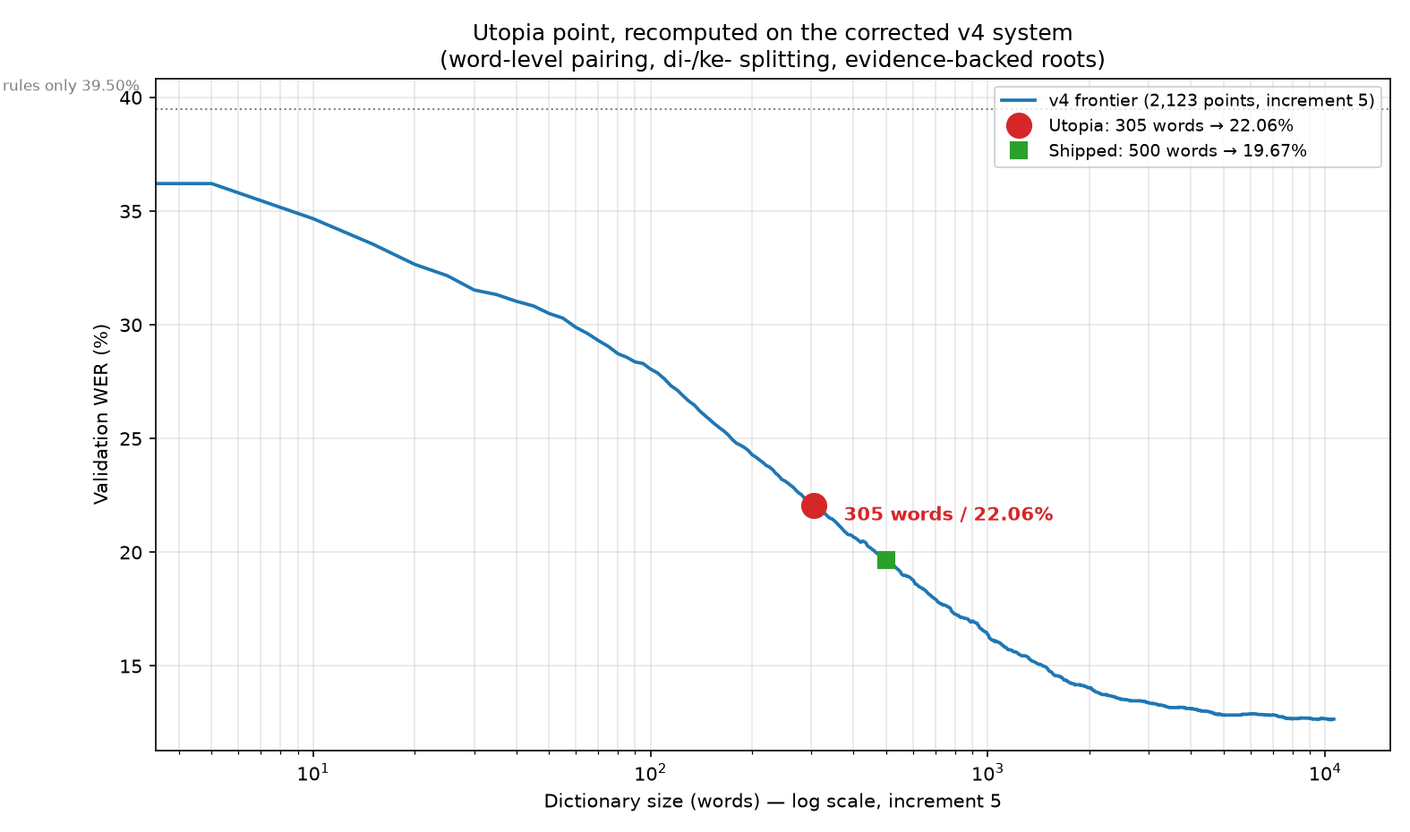
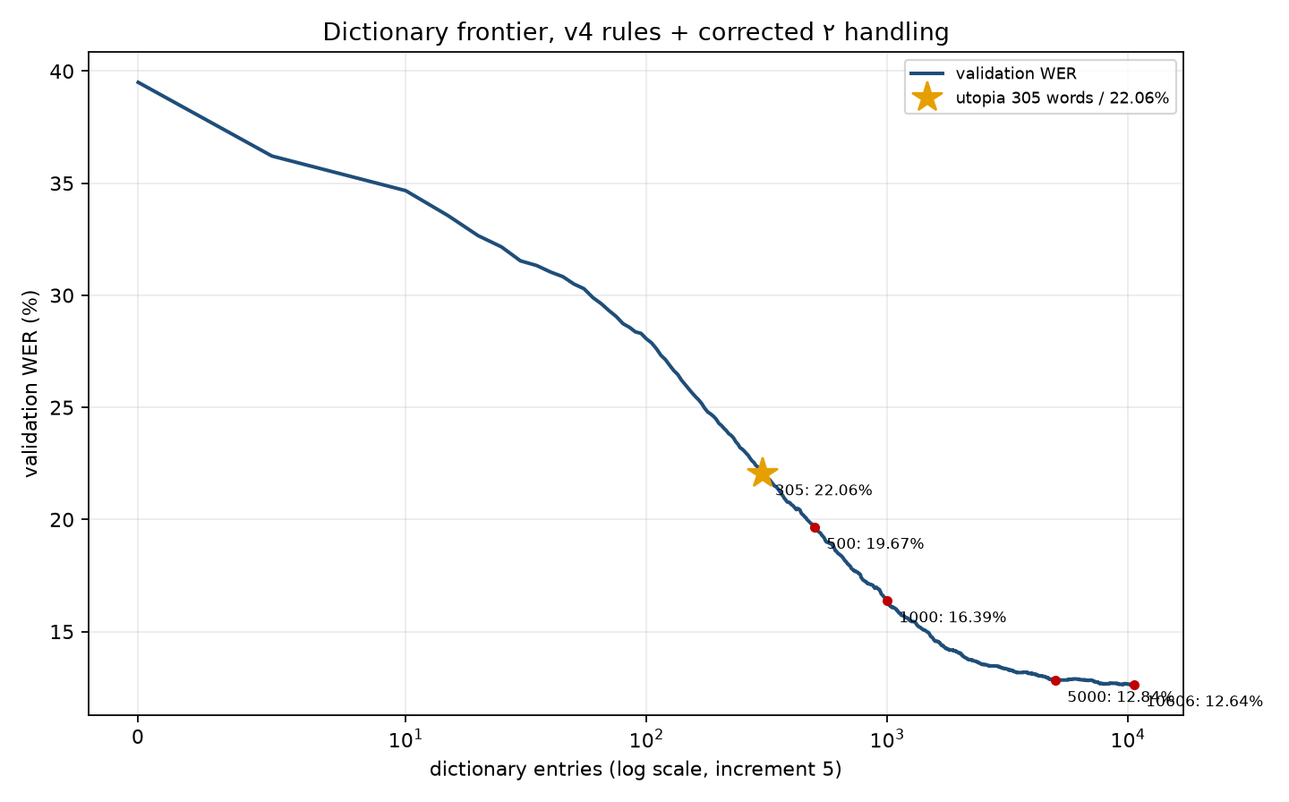
Fix the ٢ dictionary key that was stripped before lookup
The repeat handler called jawiToRumi on the captured letters, so the ٢ was
already gone when the dictionary was consulted: every marked key was
unreachable, and the aligner had recorded those tokens as the single word
anyway. Look the key up with the mark on, and align a marked token against
the repeated phrase.

Validation 19.67% -> 19.52%, train 20.07% -> 19.95%, 500 entries.
All 29 TUNE parameters screened: no gain, constants unchanged.
Utopia recounted on 2,123 points: 305 words at 22.06%

diff --git a/JawiConverter.html b/JawiConverter.html
@@ -1956,131 +1956,90 @@ function forwardForInverse(text) {
  * occurrences the rules decode wrongly (not by raw frequency). See
  * docs/EVALUATION.md; entries are only for tokens the rules get wrong. */
 const DICTIONARY_ENTRIES = {
-  "إسلام":"islam", "االله":"allah", "ابراهيم":"ibrahim", "اتليت":"atlet",
-  "احوال":"ehwal", "اد":"ada", "ارواح":"arwah", "اساس":"asas",
-  "اسماعيل":"ismail", "اسيستن":"asisten komisioner", "اسڤيک":"aspek", "اسکندر":"iskandar",
-  "الحمدالله":"alhamdulillah", "الدين":"al din", "القرءان":"al quran", "الور":"alor",
-  "امان":"aman", "امس":"emas", "امڤت":"empat", "انق٢":"anak anak",
-  "انم":"enam", "اوجرڽ":"jarinya", "اورڠ":"orang", "اوسها":"usaha",
-  "اوسهاون":"shane", "اول":"awal", "اوليه":"oleh", "اونتوق":"untuk",
-  "اوندڠ٢":"undang undang", "اونيۏرسيتي":"universiti", "اوڤ":"ops s", "اوڤراسي":"operasi",
-  "اي":"ia", "ايت":"itu", "ايسوق":"esok", "ايليکتريک":"elektrik",
-  "ايميݢريسين":"imigresen", "اين":"ini", "ايندوستري":"industri", "ايندونيسيا":"indonesia",
-  "اينستيتوسي":"institusi", "ايڠين":"ingin", "ايڤوه":"ipoh", "ايکسيکوتيف":"eksekutif",
-  "ايکن":"akan", "ايکورن":"ekoran", "ايکونومي":"ekonomi", "اڠݢوتا":"anggota",
-  "اڤليکاسي":"aplikasi", "اکن":"akan", "اݢينسي":"agensi", "بارو٢":"baru",
-  "بايي":"bayi", "باݢي":"bagi", "براوسها":"berusaha", "براوسيا":"berusia",
-  "براوچڤ":"berucap merasmikan", "براوڤراسي":"beroperasi", "برايکوتن":"berikutan", "بربيذا":"berbeza",
-  "برتمو":"bertemu", "برتڠݢوڠجواب":"bertanggungjawab", "برجالن":"berjalan", "بردڤن":"berdepan",
-  "برسام-سام":"bersama sama", "برسيه":"bersih", "برشکور":"bersyukur", "برماٴين":"bermain",
-  "برنيلاي":"bernilai", "برکات":"berkata", "برکواس":"berkuasa", "برکوڠسي":"berkongsi",
-  "بنتوان":"bantuan", "بنجير":"banjir", "بهارو":"bahru", "بهاس":"bahasa",
-  "بهاوا":"bahawa", "بهاݢين":"bahagian", "بوات":"buat", "بوت":"bot",
-  "بودايا":"budaya", "بولا":"bola sepak", "بوليه":"boleh", "بومبا":"bomba",
-  "بيݢ":"beg", "بڠک":"bank", "بکرجا":"bekerja", "بݢيندا":"baginda",
-  "تاهون":"tahun", "تايلند":"thailand", "ترافيک":"trafik", "تراوتام":"terutama",
-  "تراوتاماڽ":"terutamanya", "ترباٴيق":"terbaik", "تربڠ":"terbang", "ترتنتو":"tertentu",
-  "ترسبوت":"tersebut", "تريلر":"treler", "ترڠݢانو":"terengganu", "تمبه":"tambah",
-  "تمبهڽ":"tumbuhnya", "تمڤت":"tempat", "تنتڠ":"tentang", "تولر":"telur",
-  "توناي":"tunai", "تياد":"tiada", "تيبا٢":"tiba", "تيدق":"tidak",
-  "تيمڤوه":"tempoh", "تيندقن":"tindakan", "تيکنولوݢي":"teknologi", "تيکيت":"tiket",
-  "تڠکو":"tengku", "تڠݢوڠجواب":"tanggungjawab", "جاوتنکواس":"jawatankuasa", "جاوي":"javi",
-  "جاي":"jae", "جماعه":"jemaah", "جمبتن":"jambatan", "جوسترو":"justru",
-  "جوهر":"johor", "جک":"jika", "حاج":"haji", "حرام":"haram",
-  "حسن":"hasan", "حيوان":"haiwan", "حکومن":"hukuman", "خاص":"khas",
-  "خصوصڽ":"khususnya", "د":"di", "دأتس":"di atas", "دأيبو":"dibawa",
-  "داتوق":"datuk", "دالم":"dalam", "دان":"dan", "داٴيره":"daerah",
-  "دباندر":"di bandar", "دباوا":"dibawa ke", "دباوه":"di bawah", "دببراڤ":"di beberapa",
-  "دبهاݢين":"di bahagian", "دبوات":"dibuat", "دتامن":"di taman", "دتاهن":"ditahan",
-  "دتموٴي":"ditemui", "دتموکن":"ditemukan", "دتمڤت":"di tempat", "دجابتن":"di jabatan",
-  "دجالن":"di jalan", "ددالم":"di dalam", "دداٴيره":"di", "دداڤتي":"didapati",
-  "ددعوا":"didakwa", "دديوان":"di dewan", "درومه":"di rumah", "دري":"dari",
-  "درڤد":"daripada", "دسان":"di sana", "دسببکن":"disebabkan", "دسبواه":"di sebuah",
-  "دستاديوم":"di stadium", "دسدياکن":"disediakan", "دسرتاٴي":"disertai", "دسلوروه":"di seluruh",
-  "دسمڤايکن":"disampaikan oleh", "دسمڤيڠ":"di samping", "دسيتو":"di situ", "دسيني":"di sini",
-  "دسکوله":"di sekolah", "دسکيتر":"di sekitar", "دشکي":"disyaki", "دعوه":"daah",
-  "دفهمکن":"difahamkan", "دلاڤورکن":"dilaporkan", "دلقساناکن":"dilaksanakan", "دلوار":"di luar",
-  "دلوکاسي":"di lokasi", "دمان":"di mana", "دمحکمه":"di mahkamah", "دمسجد":"di masjid",
-  "دمعلومکن":"dimaklumkan", "دمليسيا":"di malaysia", "دمي":"demi", "دمکين":"demikian",
-  "دنيا":"dunia", "دنݢارا":"di", "دنݢري":"di", "دهادڤن":"di hadapan",
-  "دهوسڤيتل":"di hospital", "دهولو":"dahulu", "دواکيلي":"diwakili", "دورين":"durin",
-  "دوکتور":"doktor", "دوکومن":"dokumen", "ديوان":"dewan", "دڠن":"dengan",
-  "دڤرتوا":"dipertua", "دڤريڠکت":"di peringkat", "دڤرچاياٴي":"dipercayai", "دڤن":"depan",
-  "دڤوست":"di pusat", "دکامڤوڠ":"di kampung", "دکاوسن":"di kawasan", "دکت":"dekat",
-  "دکلوارکن":"dikeluarkan oleh", "دکناکن":"dikenakan", "دکنلي":"dikenali", "دکيلوميتر":"di kilometer",
-  "راکن٢":"rakan", "رزقي":"rezeki", "رسواه":"rasuah", "رعية":"rakyat",
-  "رعيت":"rakyat", "رمضان":"ramadan", "رنده":"rendah", "ريمن":"roman",
-  "ريکود":"rekod", "زکاة":"zakat", "س":"s", "ساتو":"satu",
-  "سباݢاي":"sebagai", "سبنتر":"sini sebentar", "سبنرڽ":"sebenarnya", "سبهاݢين":"sebahagian daripada",
-  "ستياٴوسها":"setiausaha", "ستياڤ":"setiap", "سراوق":"sarawak", "سرتا":"serta",
-  "سرمبن":"seremban", "سري":"seri", "سلاتن":"selatan", "سلاڠور":"selangor",
-  "سلساي":"selesai", "سلطان":"sultan", "سليسا":"selesa", "سمات-مات":"semata mata",
-  "سماکين":"semakin", "سمبوتن":"sambutan", "سمبيل":"sambil", "سمنتارا":"sementara itu",
-  "سمڤاي":"sampai", "سمڤنا":"sempena", "سمڤه":"sampah", "سنتياس":"sentiasa",
-  "سهاج":"sahaja", "سوروهنجاي":"pencegahan rasuah", "سوسيال":"sosial", "سوسڤيک":"suspek",
-  "سومبر":"sumber", "سوڠاي":"sungai", "سوڤايا":"supaya", "سوکوڠن":"sokongan",
-  "سياستن":"siasatan", "سياڤ":"siap", "سيتي":"seti", "سيد":"syed",
-  "سيستم":"sistem", "سينديکيت":"sindiket", "سيڤتيمبر":"malaysia fam", "سيڤق":"sepak malaysia",
-  "سيکشن":"seksyen", "سڠݢوڤ":"sanggup", "سڤرتي":"seperti", "سڤنجڠ":"sepanjang",
-  "سڤنوهڽ":"sepenuhnya", "سکواد":"skuad", "سکوله":"sekolah", "شاه":"shah",
-  "شريکت":"syarikat", "صالح":"saleh", "صح":"sah", "صلاة":"solat",
-  "طرف":"taraf", "عاقبة":"akibat", "عبداالله":"abdullah", "عبدالرحمن":"abdul rahman",
-  "عبدالعزيز":"abdul aziz", "علمو":"ilmu", "علي":"ala", "عموم":"umum",
-  "عوام":"awam", "عيدالفطري":"aidilfitri", "فوکوس":"fokus", "فيسبوک":"facebook",
-  "قاعده":"kaedah", "قدر":"kadar", "لاڤورن":"laporan", "لمڤور":"lumpur",
-  "لنجوت":"lanjut", "لوري":"lori", "لوکاسي":"lokasi", "ليم":"lima",
-  "لڠسوڠ":"langsung", "لڠکه":"langkah", "ماجيستريت":"majistret", "ماسيڠ٢":"masing",
-  "مان٢":"mana mana", "ماٴنسي":"manusia", "مجليس":"majlis", "محمد":"muhammad",
-  "محکمه":"mahkamah", "مراسميکن":"merasmikan", "مرمڤس":"merampas", "مريک":"mereka",
-  "مسئله":"masalah", "مسجد":"masjid", "مسرا":"mesra", "مشارکت":"masyarakat",
-  "معلومت":"maklumat", "ملايو":"melayu", "ملتقکن":"meletakkan", "ملقساناکن":"melaksanakan",
-  "ملنچرکن":"melancarkan", "مليسيا":"malaysia", "ملڠݢر":"melanggar", "مماکاي":"memakai",
-  "ممباوا":"membawa", "ممبوات":"membuat", "ممبوليهکن":"membolehkan", "ممرلوکن":"memerlukan",
-  "ممستيکن":"memastikan", "ممعلومکن":"memaklumkan", "ممنوهي":"memenuhi", "ممڤو":"mampu",
-  "منجالني":"menjalani", "منداڤتي":"mendapati", "مندعوا":"mendakwa", "منفعة":"manfaat",
-  "منمبه":"menambah", "منمتکن":"menamatkan", "منچاڤاي":"mencapai", "منڠکڤ":"menangkap akan",
-  "مهاسيسوا":"mahasiswa", "مواکيلي":"mewakili", "موت":"maut", "موتوسيکل":"motosikal",
-  "موجودکن":"mewujudkan", "موڠکين":"mungkin", "ميت":"mayat", "ميتر":"meter",
-  "ميديا":"media sosial", "ميسين":"mesin", "ميمڠ":"memang", "مڠالمي":"mengalami",
-  "مڠسا":"mangsa", "مڠصحکن":"mengesahkan", "مڠعمومکن":"mengumumkan", "مڠلوارکن":"mengeluarkan",
-  "مڠمبيل":"mengambil", "مڽببکن":"menyebabkan", "مڽدري":"menyedari", "مڽدياکن":"menyediakan",
-  "مڽرتاٴي":"menyertai", "مڽقسيکن":"menyaksikan", "مڽلسايکن":"menyelesaikan", "مڽمبوت":"menyambut",
-  "مڽمڤايکن":"menyampaikan", "ناسيونل":"nasional", "نجيب":"najib", "نيلاي":"nilai",
-  "نݢري":"negeri", "هديه":"hadiah", "همڤير":"hampir", "هوتيل":"hotel",
-  "هوسڤيتل":"hospital", "ولايه":"wilayah", "ياٴيت":"iaitu", "يقين":"yakin",
-  "يوسف":"yusuf", "يڠ":"yang", "چابرن":"cabaran", "چالون":"calon",
-  "چمرلڠ":"cemerlang", "چنسلور":"canselor", "چونتوه":"contoh", "چوڠ":"cheung we",
-  "چينا":"china", "ڤاس":"pas", "ڤاسرن":"pasaran", "ڤاميرن":"pameran",
-  "ڤاکاين":"pakaian", "ڤد":"pada", "ڤرخدمتن":"perkhidmatan", "ڤرسمبهن":"persembahan",
-  "ڤرسکوتوان":"persekutuan", "ڤرليس":"perlis", "ڤرليمن":"parlimen", "ڤرموهونن":"permohonan",
-  "ڤرمڤوان":"perempuan", "ڤرنه":"pernah", "ڤروتون":"proton", "ڤروجيک":"projek",
-  "ڤرودوک":"produk", "ڤروسيس":"proses", "ڤروفيسور":"profesor", "ڤرومهن":"perumahan",
-  "ڤروݢرم":"program", "ڤريسيدن":"presiden", "ڤريميس":"premis", "ڤرکمبڠن":"perkembangan",
-  "ڤسرتا":"peserta", "ڤلاجرن":"pelajaran", "ڤلاکون":"pelakon", "ڤلباݢاي":"pelbagai",
-  "ڤلستيک":"plastik", "ڤلنچرن":"pelancaran", "ڤلنچوڠ":"pelancong", "ڤلنچوڠن":"pelancongan",
-  "ڤلڠݢن":"pelanggan", "ڤمندو":"pemandu", "ڤميمڤين":"pemimpin", "ڤنتاي":"pantai",
-  "ڤنتيڠ":"penting", "ڤنجڠ":"panjang", "ڤنداڤتن":"pendapatan", "ڤنددهن":"pendedahan tentang",
-  "ڤندعواٴن":"pendakwaan", "ڤندفترن":"pendaftaran", "ڤندودوق":"penduduk", "ڤنشرح":"pensyarah",
-  "ڤنولوڠ":"penolong", "ڤنچاڤاين":"pencapaian", "ڤنچمرن":"pencemaran", "ڤهڠ":"pahang",
-  "ڤوتراجاي":"putrajaya", "ڤوسيتيف":"positif", "ڤوليس":"polis", "ڤوڤولر":"popular",
-  "ڤوکوق":"pokok", "ڤوکول":"pukul", "ڤيراق":"perak", "ڤڠالمن":"pengalaman",
-  "ڤڠهرݢاٴن":"penghargaan", "ڤڠيعترافن":"pengiktirafan", "ڤڠڠکوتن":"pengangkutan", "ڤڠݢيلن":"panggilan",
-  "ڤڤريقساٴن":"peperiksaan", "ڤکرجا":"pekerja", "ڤکرجاٴن":"pekerjaan", "ڤڽرتاٴن":"penyertaan",
-  "ڤڽلامت":"penyelamat malaysia", "ڤڽوکوڠ":"penyokong", "ڤݢاواي":"pegawai", "ک-":"ke",
-  "کأتس":"ke atas", "کأره":"ke arah", "کأواڠن":"kewangan", "کاتݢوري":"kategori",
-  "کانق٢":"kanak kanak", "کايو":"kayu", "کاکيتاڠن":"kakitangan", "کباکرن":"kebakaran",
-  "کبڠساٴن":"kebangsaan", "کتوا":"ketua", "کتيک":"ketika", "کتيݢ-تيݢ":"ketiga tiga",
-  "کدالم":"ke dalam", "کداي":"kedai", "کدوا-دوا":"kedua dua", "کدوا-دواڽ":"kedua duanya",
-  "کران":"kerana", "کرتس":"kertas", "کرجاسام":"kerjasama", "کرجا٢":"kerja",
-  "کرومه":"ke rumah", "کريتا":"kereta", "کستم":"kastam", "کسدرن":"kesedaran",
-  "کسلامتن":"keselamatan", "کسلوروهن":"keseluruhan", "کسموا":"kesemua", "کسيقساٴن":"keseksaan",
-  "کسکوله":"ke sekolah", "کصيحتن":"kesihatan", "کلمارين":"kelmarin", "کلنتن":"kelantan",
-  "کلوکاسي":"ke lokasi", "کلڠ":"klang", "کماٴنسياٴن":"kemanusiaan", "کمنترين":"kementerian",
-  "کمودهن":"kemudahan", "کمودينڽ":"kemudiannya", "کهوسڤيتل":"ke hospital", "کواس":"kuasa",
-  "کوتا":"kota", "کوس":"kos", "کوليج":"kolej", "کومونيتي":"komuniti",
-  "کوڤراسي":"koperasi", "کيت":"kita", "کيرا٢":"kira", "کيمڤين":"kempen",
-  "کچدراٴن":"kecederaan", "کچمسن":"kecemasan", "کڤد":"kepada", "کڤرلوان":"keperluan",
-  "ۏيديو":"video", "ݢامبر":"gembira", "ݢولوڠن":"golongan", "ݢينراسي":"generasi"
+  "إسلام":"islam", "االله":"allah", "ابراهيم":"ibrahim", "اتليت":"atlet", "احوال":"ehwal", "اد":"ada",
+  "ارواح":"arwah", "اساس":"asas", "اسماعيل":"ismail", "اسيستن":"asisten komisioner", "اسڤيک":"aspek", "اسکندر":"iskandar",
+  "الحمدالله":"alhamdulillah", "الدين":"al din", "القرءان":"al quran", "الور":"alor", "امان":"aman", "امس":"emas",
+  "امڤت":"empat", "انق٢":"anak anak", "انم":"enam", "اوجرڽ":"jarinya", "اورڠ":"orang", "اوسها":"usaha",
+  "اوسهاون":"shane", "اول":"awal", "اوليه":"oleh", "اونتوق":"untuk", "اوندڠ٢":"undang undang", "اونيۏرسيتي":"universiti",
+  "اوڤ":"ops s", "اوڤراسي":"operasi", "اي":"ia", "ايت":"itu", "ايسوق":"esok", "ايليکتريک":"elektrik",
+  "ايميݢريسين":"imigresen", "اين":"ini", "ايندوستري":"industri", "ايندونيسيا":"indonesia", "اينستيتوسي":"institusi", "ايڠين":"ingin",
+  "ايڤوه":"ipoh", "ايکسيکوتيف":"eksekutif", "ايکن":"akan", "ايکورن":"ekoran", "ايکونومي":"ekonomi", "اڠݢوتا":"anggota",
+  "اڤليکاسي":"aplikasi", "اکن":"akan", "اݢينسي":"agensi", "بارو٢":"baru baru", "بايي":"bayi", "باݢي":"bagi",
+  "براوسها":"berusaha", "براوسيا":"berusia", "براوچڤ":"berucap merasmikan", "براوڤراسي":"beroperasi", "برايکوتن":"berikutan", "بربيذا":"berbeza",
+  "برتمو":"bertemu", "برتڠݢوڠجواب":"bertanggungjawab", "برجالن":"berjalan", "بردڤن":"berdepan", "برسام-سام":"bersama sama", "برسيه":"bersih",
+  "برشکور":"bersyukur", "برماٴين":"bermain", "برنيلاي":"bernilai", "برکات":"berkata", "برکواس":"berkuasa", "برکوڠسي":"berkongsi",
+  "بنتوان":"bantuan", "بنجير":"banjir", "بهارو":"bahru", "بهاس":"bahasa", "بهاوا":"bahawa", "بهاݢين":"bahagian",
+  "بوات":"buat", "بوت":"bot", "بودايا":"budaya", "بولا":"bola sepak", "بوليه":"boleh", "بومبا":"bomba",
+  "بيݢ":"beg", "بڠک":"bank", "بکرجا":"bekerja", "بݢيندا":"baginda", "تاهون":"tahun", "تايلند":"thailand",
+  "ترافيک":"trafik", "تراوتام":"terutama", "تراوتاماڽ":"terutamanya", "ترباٴيق":"terbaik", "تربڠ":"terbang", "ترتنتو":"tertentu",
+  "ترسبوت":"tersebut", "تريلر":"treler", "ترڠݢانو":"terengganu", "تمبه":"tambah", "تمبهڽ":"tumbuhnya", "تمڤت":"tempat",
+  "تنتڠ":"tentang", "تولر":"telur", "توناي":"tunai", "تياد":"tiada", "تيبا٢":"tiba tiba", "تيدق":"tidak",
+  "تيمڤوه":"tempoh", "تيندقن":"tindakan", "تيکنولوݢي":"teknologi", "تيکيت":"tiket", "تڠکو":"tengku", "تڠݢوڠجواب":"tanggungjawab",
+  "جاوتنکواس":"jawatankuasa", "جاوي":"javi", "جاي":"jae", "جماعه":"jemaah", "جمبتن":"jambatan", "جوسترو":"justru",
+  "جوهر":"johor", "جک":"jika", "حاج":"haji", "حرام":"haram", "حسن":"hasan", "حيوان":"haiwan",
+  "حکومن":"hukuman", "خاص":"khas", "خصوصڽ":"khususnya", "د":"di", "دأتس":"di atas", "دأيبو":"dibawa",
+  "داتوق":"datuk", "دالم":"dalam", "دان":"dan", "داٴيره":"daerah", "دباندر":"di bandar", "دباوا":"dibawa ke",
+  "دباوه":"di bawah", "دببراڤ":"di beberapa", "دبهاݢين":"di bahagian", "دبوات":"dibuat", "دتامن":"di taman", "دتاهن":"ditahan",
+  "دتموٴي":"ditemui", "دتموکن":"ditemukan", "دتمڤت":"di tempat", "دجابتن":"di jabatan", "دجالن":"di jalan", "ددالم":"di dalam",
+  "دداٴيره":"di", "دداڤتي":"didapati", "ددعوا":"didakwa", "دديوان":"di dewan", "درومه":"di rumah", "دري":"dari",
+  "درڤد":"daripada", "دسان":"di sana", "دسببکن":"disebabkan", "دسبواه":"di sebuah", "دستاديوم":"di stadium", "دسدياکن":"disediakan",
+  "دسرتاٴي":"disertai", "دسلوروه":"di seluruh", "دسمڤايکن":"disampaikan oleh", "دسمڤيڠ":"di samping", "دسيتو":"di situ", "دسيني":"di sini",
+  "دسکوله":"di sekolah", "دسکيتر":"di sekitar", "دشکي":"disyaki", "دعوه":"daah", "دفهمکن":"difahamkan", "دلاڤورکن":"dilaporkan",
+  "دلقساناکن":"dilaksanakan", "دلوار":"di luar", "دلوکاسي":"di lokasi", "دمان":"di mana", "دمحکمه":"di mahkamah", "دمسجد":"di masjid",
+  "دمعلومکن":"dimaklumkan", "دمليسيا":"di malaysia", "دمي":"demi", "دمکين":"demikian", "دنيا":"dunia", "دنݢارا":"di",
+  "دنݢري":"di", "دهادڤن":"di hadapan", "دهوسڤيتل":"di hospital", "دهولو":"dahulu", "دواکيلي":"diwakili", "دورين":"durin",
+  "دوکتور":"doktor", "دوکومن":"dokumen", "ديوان":"dewan", "دڠن":"dengan", "دڤرتوا":"dipertua", "دڤريڠکت":"di peringkat",
+  "دڤرچاياٴي":"dipercayai", "دڤن":"depan", "دڤوست":"di pusat", "دکامڤوڠ":"di kampung", "دکاوسن":"di kawasan", "دکت":"dekat",
+  "دکلوارکن":"dikeluarkan oleh", "دکناکن":"dikenakan", "دکنلي":"dikenali", "دکيلوميتر":"di kilometer", "راکن٢":"rakan rakan", "رزقي":"rezeki",
+  "رسواه":"rasuah", "رعية":"rakyat", "رعيت":"rakyat", "رمضان":"ramadan", "رنده":"rendah", "ريمن":"roman",
+  "ريکود":"rekod", "زکاة":"zakat", "س":"s", "ساتو":"satu", "سباݢاي":"sebagai", "سبنتر":"sini sebentar",
+  "سبنرڽ":"sebenarnya", "سبهاݢين":"sebahagian daripada", "ستياٴوسها":"setiausaha", "ستياڤ":"setiap", "سراوق":"sarawak", "سرتا":"serta",
+  "سرمبن":"seremban", "سري":"seri", "سلاتن":"selatan", "سلاڠور":"selangor", "سلساي":"selesai", "سلطان":"sultan",
+  "سليسا":"selesa", "سمات-مات":"semata mata", "سماکين":"semakin", "سمبوتن":"sambutan", "سمبيل":"sambil", "سمنتارا":"sementara itu",
+  "سمڤاي":"sampai", "سمڤنا":"sempena", "سمڤه":"sampah", "سنتياس":"sentiasa", "سهاج":"sahaja", "سوروهنجاي":"pencegahan rasuah",
+  "سوسيال":"sosial", "سوسڤيک":"suspek", "سومبر":"sumber", "سوڠاي":"sungai", "سوڤايا":"supaya", "سوکوڠن":"sokongan",
+  "سياستن":"siasatan", "سياڤ":"siap", "سيتي":"seti", "سيد":"syed", "سيستم":"sistem", "سينديکيت":"sindiket",
+  "سيڤتيمبر":"malaysia fam", "سيڤق":"sepak malaysia", "سيکشن":"seksyen", "سڠݢوڤ":"sanggup", "سڤرتي":"seperti", "سڤنجڠ":"sepanjang",
+  "سڤنوهڽ":"sepenuhnya", "سکواد":"skuad", "سکوله":"sekolah", "شاه":"shah", "شريکت":"syarikat", "صالح":"saleh",
+  "صح":"sah", "صلاة":"solat", "طرف":"taraf", "عاقبة":"akibat", "عبداالله":"abdullah", "عبدالرحمن":"abdul rahman",
+  "عبدالعزيز":"abdul aziz", "علمو":"ilmu", "علي":"ala", "عموم":"umum", "عوام":"awam", "عيدالفطري":"aidilfitri",
+  "فوکوس":"fokus", "فيسبوک":"facebook", "قاعده":"kaedah", "قدر":"kadar", "لاڤورن":"laporan", "لمڤور":"lumpur",
+  "لنجوت":"lanjut", "لوري":"lori", "لوکاسي":"lokasi", "ليم":"lima", "لڠسوڠ":"langsung", "لڠکه":"langkah",
+  "ماجيستريت":"majistret", "ماسيڠ٢":"masing masing", "مان٢":"mana mana", "ماٴنسي":"manusia", "مجليس":"majlis", "محمد":"muhammad",
+  "محکمه":"mahkamah", "مراسميکن":"merasmikan", "مرمڤس":"merampas", "مريک":"mereka", "مسئله":"masalah", "مسجد":"masjid",
+  "مسرا":"mesra", "مشارکت":"masyarakat", "معلومت":"maklumat", "ملايو":"melayu", "ملتقکن":"meletakkan", "ملقساناکن":"melaksanakan",
+  "ملنچرکن":"melancarkan", "مليسيا":"malaysia", "ملڠݢر":"melanggar", "مماکاي":"memakai", "ممباوا":"membawa", "ممبوات":"membuat",
+  "ممبوليهکن":"membolehkan", "ممرلوکن":"memerlukan", "ممستيکن":"memastikan", "ممعلومکن":"memaklumkan", "ممنوهي":"memenuhi", "ممڤو":"mampu",
+  "منجالني":"menjalani", "منداڤتي":"mendapati", "مندعوا":"mendakwa", "منفعة":"manfaat", "منمبه":"menambah", "منمتکن":"menamatkan",
+  "منچاڤاي":"mencapai", "منڠکڤ":"menangkap akan", "مهاسيسوا":"mahasiswa", "مواکيلي":"mewakili", "موت":"maut", "موتوسيکل":"motosikal",
+  "موجودکن":"mewujudkan", "موڠکين":"mungkin", "ميت":"mayat", "ميتر":"meter", "ميديا":"media sosial", "ميسين":"mesin",
+  "ميمڠ":"memang", "مڠالمي":"mengalami", "مڠسا":"mangsa", "مڠصحکن":"mengesahkan", "مڠعمومکن":"mengumumkan", "مڠلوارکن":"mengeluarkan",
+  "مڠمبيل":"mengambil", "مڽببکن":"menyebabkan", "مڽدري":"menyedari", "مڽدياکن":"menyediakan", "مڽرتاٴي":"menyertai", "مڽقسيکن":"menyaksikan",
+  "مڽلسايکن":"menyelesaikan", "مڽمبوت":"menyambut", "مڽمڤايکن":"menyampaikan", "ناسيونل":"nasional", "نجيب":"najib", "نيلاي":"nilai",
+  "نݢري":"negeri", "هديه":"hadiah", "همڤير":"hampir", "هوتيل":"hotel", "هوسڤيتل":"hospital", "ولايه":"wilayah",
+  "ياٴيت":"iaitu", "يقين":"yakin", "يوسف":"yusuf", "يڠ":"yang", "چابرن":"cabaran", "چالون":"calon",
+  "چمرلڠ":"cemerlang", "چنسلور":"canselor", "چونتوه":"contoh", "چوڠ":"cheung we", "چينا":"china", "ڤاس":"pas",
+  "ڤاسرن":"pasaran", "ڤاميرن":"pameran", "ڤاکاين":"pakaian", "ڤد":"pada", "ڤرخدمتن":"perkhidmatan", "ڤرسمبهن":"persembahan",
+  "ڤرسکوتوان":"persekutuan", "ڤرليس":"perlis", "ڤرليمن":"parlimen", "ڤرموهونن":"permohonan", "ڤرمڤوان":"perempuan", "ڤرنه":"pernah",
+  "ڤروتون":"proton", "ڤروجيک":"projek", "ڤرودوک":"produk", "ڤروسيس":"proses", "ڤروفيسور":"profesor", "ڤرومهن":"perumahan",
+  "ڤروݢرم":"program", "ڤريسيدن":"presiden", "ڤريميس":"premis", "ڤرکمبڠن":"perkembangan", "ڤسرتا":"peserta", "ڤلاجرن":"pelajaran",
+  "ڤلاکون":"pelakon", "ڤلباݢاي":"pelbagai", "ڤلستيک":"plastik", "ڤلنچرن":"pelancaran", "ڤلنچوڠ":"pelancong", "ڤلنچوڠن":"pelancongan",
+  "ڤلڠݢن":"pelanggan", "ڤمندو":"pemandu", "ڤميمڤين":"pemimpin", "ڤنتاي":"pantai", "ڤنتيڠ":"penting", "ڤنجڠ":"panjang",
+  "ڤنداڤتن":"pendapatan", "ڤنددهن":"pendedahan tentang", "ڤندعواٴن":"pendakwaan", "ڤندفترن":"pendaftaran", "ڤندودوق":"penduduk", "ڤنشرح":"pensyarah",
+  "ڤنولوڠ":"penolong", "ڤنچاڤاين":"pencapaian", "ڤنچمرن":"pencemaran", "ڤهڠ":"pahang", "ڤوتراجاي":"putrajaya", "ڤوسيتيف":"positif",
+  "ڤوليس":"polis", "ڤوڤولر":"popular", "ڤوکوق":"pokok", "ڤوکول":"pukul", "ڤيراق":"perak", "ڤڠالمن":"pengalaman",
+  "ڤڠهرݢاٴن":"penghargaan", "ڤڠيعترافن":"pengiktirafan", "ڤڠڠکوتن":"pengangkutan", "ڤڠݢيلن":"panggilan", "ڤڤريقساٴن":"peperiksaan", "ڤکرجا":"pekerja",
+  "ڤکرجاٴن":"pekerjaan", "ڤڽرتاٴن":"penyertaan", "ڤڽلامت":"penyelamat malaysia", "ڤڽوکوڠ":"penyokong", "ڤݢاواي":"pegawai", "ک-":"ke",
+  "کأتس":"ke atas", "کأره":"ke arah", "کأواڠن":"kewangan", "کاتݢوري":"kategori", "کانق٢":"kanak kanak", "کايو":"kayu",
+  "کاکيتاڠن":"kakitangan", "کباکرن":"kebakaran", "کبڠساٴن":"kebangsaan", "کتوا":"ketua", "کتيک":"ketika", "کتيݢ-تيݢ":"ketiga tiga",
+  "کدالم":"ke dalam", "کداي":"kedai", "کدوا-دوا":"kedua dua", "کدوا-دواڽ":"kedua duanya", "کران":"kerana", "کرتس":"kertas",
+  "کرجاسام":"kerjasama", "کرجا٢":"kerja kerja", "کرومه":"ke rumah", "کريتا":"kereta", "کستم":"kastam", "کسدرن":"kesedaran",
+  "کسلامتن":"keselamatan", "کسلوروهن":"keseluruhan", "کسموا":"kesemua", "کسيقساٴن":"keseksaan", "کسکوله":"ke sekolah", "کصيحتن":"kesihatan",
+  "کلمارين":"kelmarin", "کلنتن":"kelantan", "کلوکاسي":"ke lokasi", "کلڠ":"klang", "کماٴنسياٴن":"kemanusiaan", "کمنترين":"kementerian",
+  "کمودهن":"kemudahan", "کمودينڽ":"kemudiannya", "کهوسڤيتل":"ke hospital", "کواس":"kuasa", "کوتا":"kota", "کوس":"kos",
+  "کوليج":"kolej", "کومونيتي":"komuniti", "کوڤراسي":"koperasi", "کيت":"kita", "کيرا٢":"kira kira", "کيمڤين":"kempen",
+  "کچدراٴن":"kecederaan", "کچمسن":"kecemasan", "کڤد":"kepada", "کڤرلوان":"keperluan", "ۏيديو":"video", "ݢامبر":"gembira",
+  "ݢولوڠن":"golongan", "ݢينراسي":"generasi"
 };
 const JawiDictionary = {
   /* token -> reading; consulted before the rule decoder. */
@@ -2212,7 +2171,16 @@ const LOOSE_ROOTS = new Set(["bilik", "sini", "dataran", "buah", "daerah", "peja
 function jawiToLatin(text) {
   text = normalizeJawiInput(text)
     .replace(/([\u0621-\u063A\u0641-\u064A\u066E-\u06D3\u0750-\u077F]+)\s*٢/gu,
-      (_, word) => { const latin = jawiToRumi(word); return latin + ' ' + latin; })
+      (_, word) => {
+        /* The mark is part of the token, so the dictionary is consulted before
+         * the mark is stripped. A reading that is already the repeated phrase
+         * (kira kira) is used as is; anything else is doubled. */
+        const entry = JawiDictionary.override ? JawiDictionary.override[word + '٢']
+          : (JawiDictionary.enabled ? JawiDictionary.entries[word + '٢'] : undefined);
+        if (entry !== undefined) return entry;
+        const latin = jawiToRumi(word);
+        return latin + ' ' + latin;
+      })
     .replace(/[٠-٩]/g, d => String(d.charCodeAt(0) - 0x0660))
     .replace(/[۰-۹]/g, d => String(d.charCodeAt(0) - 0x06F0))
     .replace(/[،⹁٬]/g, ',').replace(/؛/g, ';').replace(/[؟]/g, '?')
@@ -2227,7 +2195,7 @@ function jawiToLatin(text) {
     .replace(/([({\[])\s+/g, '$1').replace(/\s+([)}\]])/g, '$1');
 }
 
-const RULE_VERSION = '2026-11-10-rule-based-14-dict500';
+const RULE_VERSION = '2026-11-10-rule-based-16-dict500';
 if (typeof module !== 'undefined' && module.exports) module.exports = {
   RULE_VERSION, appendSuffix, latinToJawi, jawiToLatin, wordToJawi, baseWordToJawi:wordToJawi,
   syllabify, jawiToRumi, heurJawiToRumi, inverseCandidates, phonotacticCost, editDistance,

diff --git a/docs/EVALUATION.md b/docs/EVALUATION.md
@@ -875,3 +875,70 @@ The remaining error profile on validation is now dominated by lexical rather tha
 Two things checked and found already correct: the `٢` repetition rule (89.2% of corpus repeats use the mark, and the engine handles all of them), and one-to-many joins that the renderer already resolves (`kedua dua`, `berhati hati`).
 
 The aggregate metrics contain no corpus sentences. Detailed JSON metrics and error reports remain in Git-ignored `artifacts/`; downloaded Parquet files remain in Git-ignored `corpus/`.
+
+## Eighteenth-cycle: retuning, and the ٢ key that could never match
+
+The cycle asked for three things: rework the rules, re-tune the constants, recount the utopia. Two produced results.
+
+### The tuning surface is saturated
+
+All 29 `TUNE` parameters were screened against the v4 system on 250-sentence train and validation samples, two values each, bracketing the incumbent, with a full forward-and-inverse decode per cell. **Every parameter reported no gain.** Moving any single cost, bonus, or vowel-weight either left the objective unchanged or improved train while worsening validation.
+
+That is the expected result, not a null one. These constants have been fitted on the same corpus for seventeen cycles; the surviving error is lexical rather than parametric, which is exactly what the error profile has said for several cycles (substitution-dominated, months and proper nouns and loanwords). Retuning cannot spell `september`.
+
+The `TUNE` block is therefore unchanged, and `RULE_VERSION` stays on the same constants.
+
+### A dictionary key that the engine stripped before looking it up
+
+The error profile listed `kira-kira -> kira` 55 times on validation. That pair should have been impossible: the `٢` rule already reads `kira٢` as `kira kira`, and the dictionary shipped an entry for it.
+
+The cause was an ordering bug. `jawiToLatin` expands the repeat mark by matching `(letters)\s*٢` and calling `jawiToRumi` on the **captured letters**, with the mark already removed. `jawiToRumi` then normalises and consults `JawiDictionary.entries[word]`. So the lookup key was always `kira`, never `kira٢`, and the ten entries that carried the mark in their key were unreachable. Whether a repeated word came out right depended only on the rule decoder.
+
+Worse, the ranking harness that built those entries had the same defect from the other side: it paired one Jawi token with one Rumi word, so a token written `kira٢` against the reference `kira kira` looked like a 1:1 pair and was recorded as the reading `kira`. The dictionary was therefore storing the *wrong* answer for exactly the tokens it was meant to fix.
+
+Both halves were corrected:
+
+1. The aligner now treats a token carrying `٢` as one token against the repeated phrase, so `kira٢ -> kira kira` is recorded as such.
+2. The repeat handler consults the dictionary with the mark **still on the key** (`word + '٢'`) before falling back to the rule decoder and doubling. A reading that is already the repeated phrase is emitted once; anything else is doubled as before.
+
+Re-ranking produced 291 `٢`-keyed entries, all of them genuinely reachable for the first time. The top twenty of the 500 shipped now include `kira٢ -> kira kira` (477 corpus occurrences) and `baru٢ -> baru baru` (212), where the previous build had `kira` and `baru`.
+
+| Split | v4 | **v16** | Exact sentences |
+| --- | ---: | ---: | ---: |
+| train | 20.07% | **19.95%** | 2,072 |
+| validation | 19.67% | **19.52%** | 275 |
+| test (comparative) | 20.77% | **20.68%** | 232 |
+
+Both selection splits improve, which is the acceptance condition; the test split is reported only as a check that nothing broke.
+
+### Utopia, recounted on v16
+
+The frontier was rebuilt at increment 5 (2,123 points, real engine at every point, 10,606-entry mismatch space):
+
+| Dictionary words | Validation WER | Exact sentences |
+| ---: | ---: | ---: |
+| 0 | 39.50% | 117 |
+| 100 | 28.06% | 182 |
+| 250 | 23.14% | 229 |
+| **305 (utopia)** | **22.06%** | 241 |
+| 500 (shipped) | 19.67% | 273 |
+| 1,000 | 16.39% | 343 |
+| 3,000 | 13.39% | 459 |
+| 5,000 | 12.84% | 487 |
+| 10,606 (all) | 12.64% | 511 |
+
+**Utopia: 305 words at 22.06% validation WER** — unchanged from v4. Weight sensitivity, recomputed on the new curve:
+
+| Vocabulary weight | Choice | Validation WER |
+| ---: | ---: | ---: |
+| 0.3 | 710 words | 17.82% |
+| 0.4 | 560 words | 18.99% |
+| **0.5** | **305 words** | **22.06%** |
+| 0.6 | 180 words | 24.79% |
+| 0.7 | 20 words | 32.66% |
+
+The utopia point is stable because it depends on the *shape* of the early curve, and the `٢` correction lives almost entirely in the tail: it changes the floor from 12.6648% to 12.6438% and the shipped 500-entry point from 19.6734% to 19.5240%. The knee does not move when the floor does.
+
+### What this says about the remaining headroom
+
+Two consecutive cycles have now failed to move the constants, and the only gain available was a correctness bug rather than an optimisation. The rules are done; the frontier is flat past 5,000 entries; the residual is spelling. Further work on this engine should be directed at lexical coverage and at the metric's treatment of proper nouns, not at more rule shape.

diff --git a/README-id.md b/README-id.md
@@ -91,7 +91,8 @@ Nilai `0` berarti seluruh split. Batas yang lebih kecil berguna selama pengemban
 | Dihantar: kamus 500 kata (pasangan v1) | 27,62% | 26,59% | 27,50% |
 | v2: pasangan kata dibetulkan + 500 entri | 20,23% | 19,79% | 20,95% |
 | v3: pemisahan ke- + 500 entri | 20,10% | 19,70% | 20,78% |
-| **v4: akar di- diperluas (269) + 500 entri** | **20,07%** | **19,67%** | 20,77% |
+| v4: akar di- diperluas (269) + 500 entri | 20,07% | 19,67% | 20,77% |
+| **v16: kunci kamus ٢ boleh dicapai** | **19,95%** | **19,52%** | 20,68% |
 
 Hasil rule-based-11 saat ini adalah **15.862 edit / 38.326 kata referensi = 41,3870% WER test**, dengan 81 kalimat test yang cocok persis. Dibanding rule-based-2, WER test turun **12,4094 poin persentase**; dibanding baseline dengan koreksi tanda baca, penurunannya **16,7093 poin**. Pada seluruh split validation, WER turun menjadi **40,5656%**, yaitu **0,0210 poin** lebih baik daripada rule-based-10.
 

diff --git a/README.md b/README.md
@@ -91,7 +91,8 @@ node tests/evaluate_corpus.js \
 | Shipped: 500-word dictionary (v1 pairing) | 27.62% | 26.59% | 27.50% |
 | v2: corrected word pairing + 500 entries | 20.23% | 19.79% | 20.95% |
 | v3: ke- splitting + 500 entries | 20.10% | 19.70% | 20.78% |
-| **v4: expanded di- roots (269) + 500 entries** | **20.07%** | **19.67%** | 20.77% |
+| v4: expanded di- roots (269) + 500 entries | 20.07% | 19.67% | 20.77% |
+| **v16: reachable ٢ dictionary keys** | **19.95%** | **19.52%** | 20.68% |
 
 The current rule-based-11 result is **15,862 edits / 38,326 reference words = 41.3870% test WER**, with 81 exact test sentences. Relative to rule-based-2, this is a **12.4094-point** test reduction; relative to the punctuation-corrected baseline, it is **16.7093 points**. On the full validation split WER falls to **40.5656%**, a further **0.0210 points** over rule-based-10.
 
